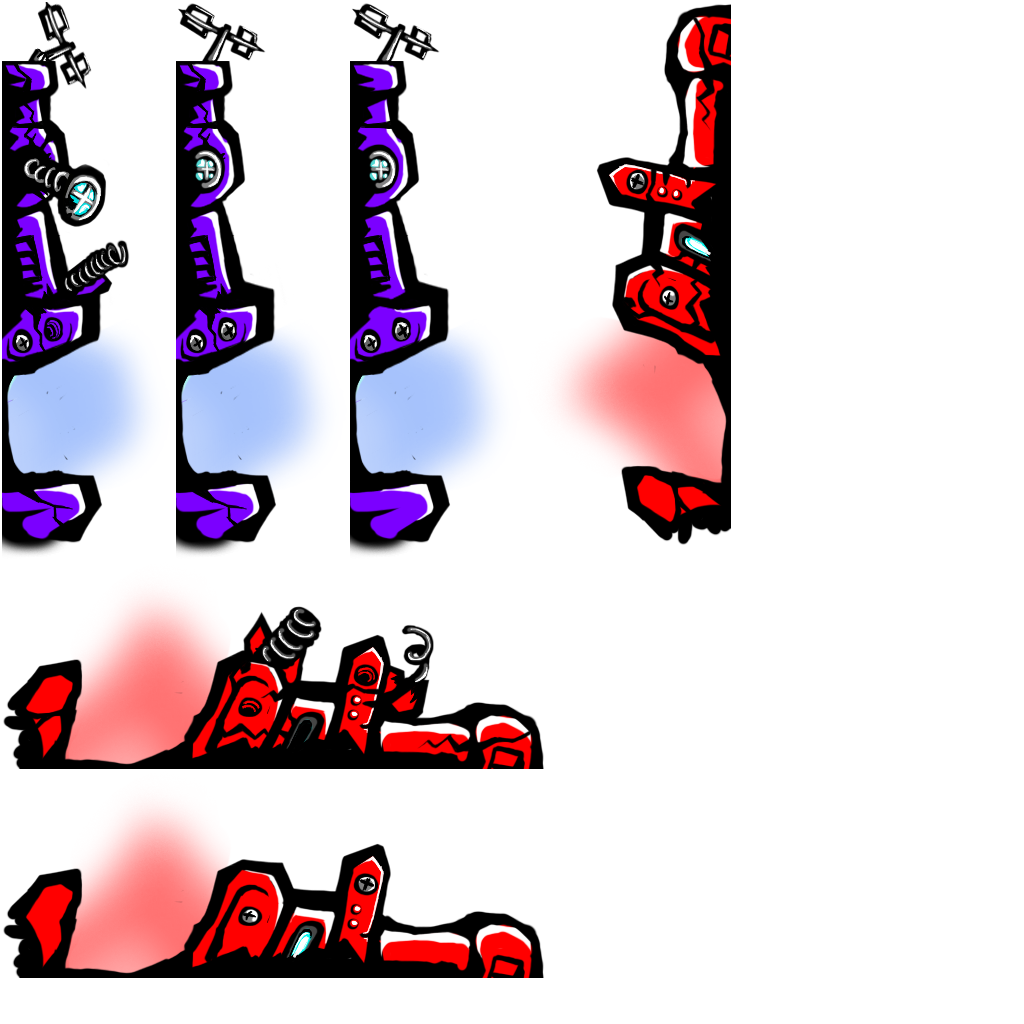
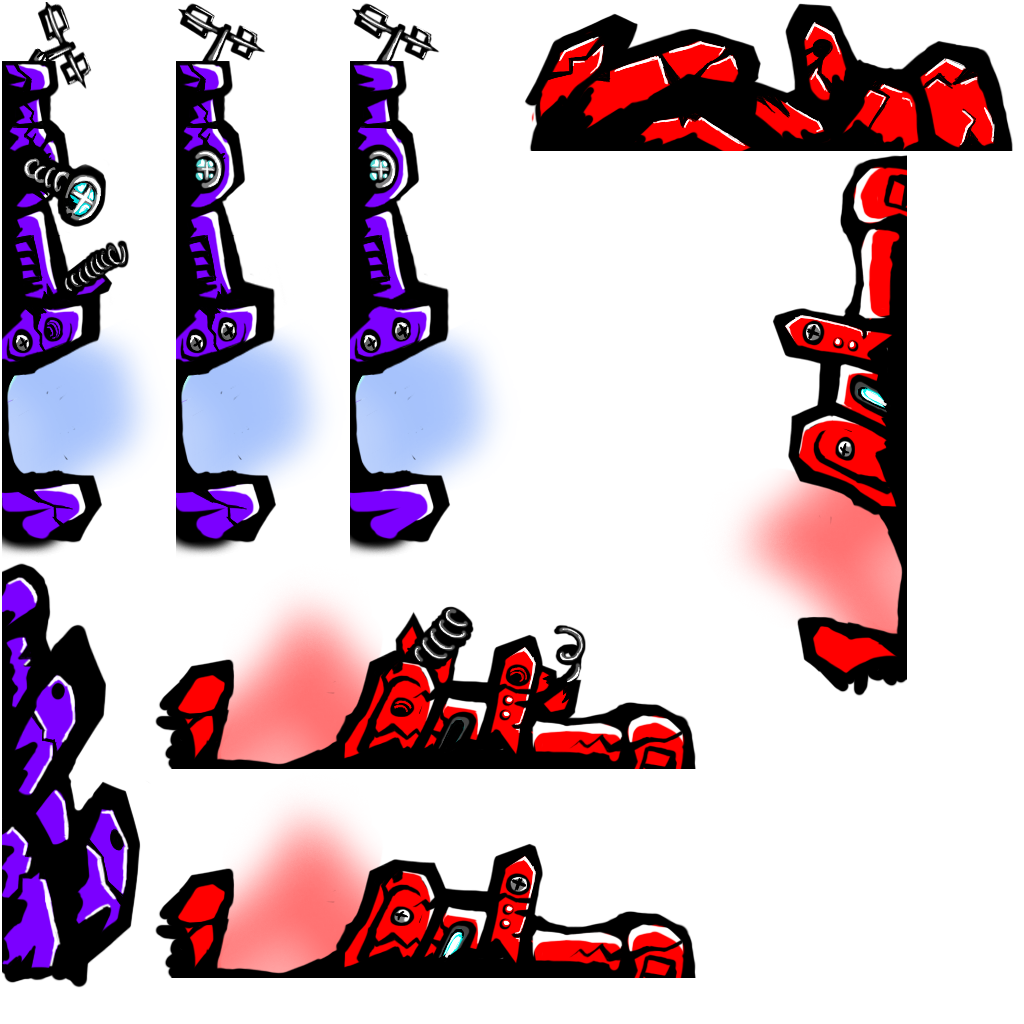
Signed-off-by: kafeier <791961143@qq.com>

Changed region(s): [[0.0, 0.5312, 0.6875, 0.9688], [0.5, 0.0, 1.0, 0.6875]]

diff --git a/Magnetic/src/ScoreController.js b/Magnetic/src/ScoreController.js
@@ -9,6 +9,7 @@ var ScoreController = {
     fp_score_label : null,
     sp_score_label : null,
     game_layer : null,
+    gameOver_score : 3,
 
     init : function(game_layer){
         this.fp_score = 0;
@@ -30,14 +31,48 @@ var ScoreController = {
     addFpScore : function(){
         this.fp_score ++;
 
-        this.fp_score_label.setString(this.fp_score);
+        if (this.fp_score && this.fp_score <= this.gameOver_score) {
+            this.fp_score_label.setString(this.fp_score);
+            var rightGate = this.game_layer.getChildByTag(RIGHT_GATE_TAG);
+            var spriteFrameCache = cc.spriteFrameCache;
+            var rightSpriteFrame = rightGate.getSpriteFrame();
+            switch (this.fp_score) {
+                case 1:
+                    rightSpriteFrame = spriteFrameCache.getSpriteFrame("redB.png");
+                    break;
+                case 2:
+                    rightSpriteFrame = spriteFrameCache.getSpriteFrame("redC.png");
+                    break;
+                case 3:
+                    rightSpriteFrame = spriteFrameCache.getSpriteFrame("redD.png");
+                    break;
+            }
+            rightGate.setSpriteFrame(rightSpriteFrame);
+
+        }
     },
 
     addSpScore : function(){
         this.sp_score ++;
-        //var left_gate = this.game_layer.getChildByTag(LEFT_GATE_TAG);
+        if (this.sp_score && this.sp_score <= this.gameOver_score) {
+            this.sp_score_label.setString(this.sp_score);
+            var leftGate = this.game_layer.getChildByTag(LEFT_GATE_TAG);
+            var spriteFrameCache = cc.spriteFrameCache;
+            var leftSpriteFrame = leftGate.getSpriteFrame();
+            switch (this.sp_score) {
+                case 1:
+                    leftSpriteFrame = spriteFrameCache.getSpriteFrame("purpleB.png");;
+                    break;
+                case 2:
+                    leftSpriteFrame = spriteFrameCache.getSpriteFrame("purpleC.png");
+                    break;
+                case 3:
+                    leftSpriteFrame = spriteFrameCache.getSpriteFrame("purpleD.png");
+                    break;
+            }
 
-        this.sp_score_label.setString(this.sp_score);
+        }
+
     }
 
 

diff --git a/Magnetic/src/GlobalValue.js b/Magnetic/src/GlobalValue.js
@@ -39,7 +39,7 @@ var PLAYER_ATTRACT_TOP_FORCE = cp.v(0, 2);
 
 
 //bomb
-var EXPLODE_TIME = 3;
+var EXPLODE_TIME = 300;
 var EXPLODE_WEIGHT = 10;
 var EXPLODE_RADIUS = 50;
 var EXPLODE_ELASTICITY = 10;
